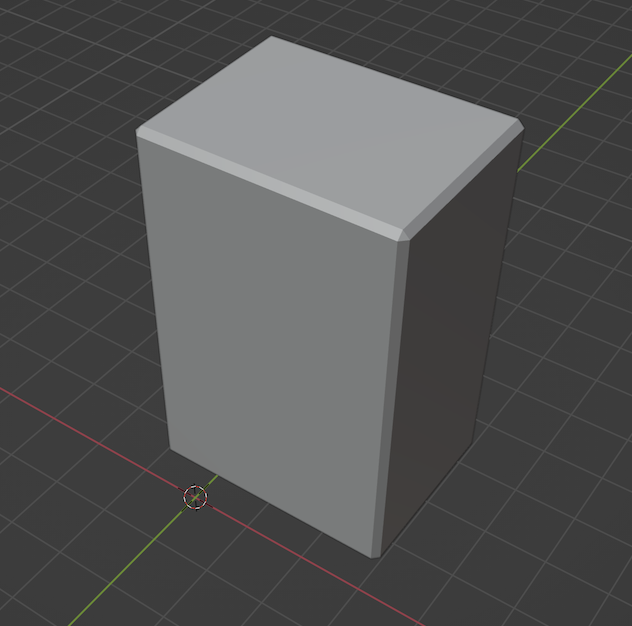
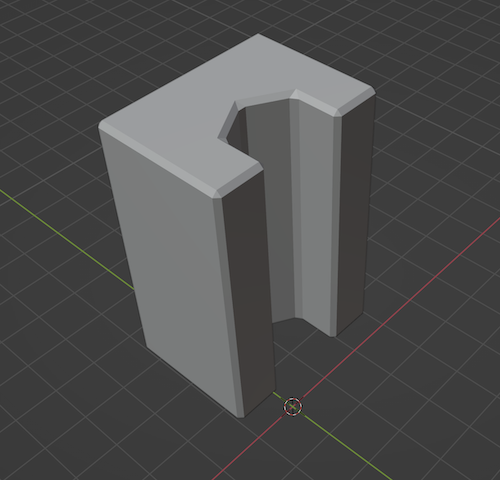
Added support for boolean modifier

diff --git a/blender_cad/bcad.py b/blender_cad/bcad.py
@@ -36,9 +36,7 @@ class BlenderObject:
         data.scale = BlenderVector(self.entity.scale).export()
         data.rotation_euler = BlenderVector(self.entity.rotation_euler).export()
         data.vertex_groups = 'TODO' # str(self.entity.vertex_groups)
-        data.hide_render = self.entity.hide_render
-        data.hide_select = self.entity.hide_select
-        data.hide_viewport = self.entity.hide_viewport
+        data.hide = self.entity.hide_get()
         data.modifiers = []
         data.data = BlenderMesh(self.entity.data).export()
         for modifier in self.entity.modifiers:
@@ -48,16 +46,24 @@ class BlenderObject:
             if modifier.type == 'BEVEL':
                 modifier_data = BlenderBevel(modifier).export()
                 data.modifiers.append(modifier_data)
+            if modifier.type == 'BOOLEAN':
+                modifier_data = BlenderBoolean(modifier).export()
+                data.modifiers.append(modifier_data)
         return data.__dict__
 
     @staticmethod
     def from_json(obj_json):
+        # Create mesh.
         mesh = BlenderMesh.from_json(obj_json['data'])
+        # Create object.
         obj = bpy.data.objects.new(name=obj_json['name'], object_data=mesh)
+        obj.location = obj_json['location']
+        # Set active
         view_layer = bpy.context.view_layer
         view_layer.active_layer_collection.collection.objects.link(obj)
         obj.select_set(True)
         view_layer.objects.active = obj
+        obj.hide_set(obj_json['hide'])
         # Generate modifiers
         for modifier_json in obj_json['modifiers']:
             tpe = modifier_json['type']
@@ -65,6 +71,7 @@ class BlenderObject:
             modifier_blender = obj.modifiers.new(name, tpe)
             if tpe == 'SOLIDIFY': modifier = BlenderSolidify(modifier_blender)
             if tpe == 'BEVEL': modifier = BlenderBevel(modifier_blender)
+            if tpe == 'BOOLEAN': modifier = BlenderBoolean(modifier_blender)
             modifier.update(modifier_json)
         return obj
 
@@ -81,7 +88,7 @@ class BlenderMesh:
             if self.is_rectangle():
                 vertices = [v.co for v in self.entity.vertices]
                 normal = self.get_normal()
-                data.sketch = Rectangle(vertices, normal).export()
+                data.primitive = Rectangle(vertices, normal).export()
         else:
             data.vertices = []
             for vertex in self.entity.vertices:
@@ -99,7 +106,7 @@ class BlenderMesh:
         faces = self.entity.polygons
         if len(faces) != 1: return False
         # TODO: Check if all vertices are on the same plane.
-        return True
+        if self.is_rectangle(): return True # TODO: This is redundant
 
     def is_rectangle(self):
         vertices = [v.co for v in self.entity.vertices]
@@ -120,12 +127,12 @@ class BlenderMesh:
     @staticmethod
     def from_json(mesh_json):
         mesh = bpy.data.meshes.new(mesh_json['name'])
-        if mesh_json['sketch']:
-            sketch = mesh_json['sketch']
-            if sketch['type'] == 'RECTANGLE':
-                center = sketch['center']
-                width = sketch['width']
-                height = sketch['height']
+        if 'primitive' in mesh_json:
+            primitive = mesh_json['primitive']
+            if primitive['type'] == 'RECTANGLE':
+                center = primitive['center']
+                width = primitive['width']
+                height = primitive['height']
                 origin = [
                     center[0] - (width/2),
                     center[1] - (height/2),
@@ -196,6 +203,30 @@ class BlenderBevel:
         data.segments = self.entity.segments
         return data.__dict__
 
+
+class BlenderBoolean:
+    def __init__(self, entity):
+        self.entity = entity
+
+    def update(self, modifier_json):
+        self.entity.operation = modifier_json['operation']
+        self.entity.operand_type = modifier_json['operand_type']
+        ref = delayObjectReference(
+            self.entity,
+            'object',
+            modifier_json['object']
+        )
+        references.append(ref)
+
+    def export(self):
+        data = SimpleNamespace()
+        data.type = self.entity.type
+        data.name = self.entity.name
+        data.operation = self.entity.operation
+        data.operand_type = self.entity.operand_type
+        data.object = self.entity.object.name
+        return data.__dict__
+
 class BlenderVector:
     def __init__(self, vector):
         self.vector = vector
@@ -206,6 +237,18 @@ class BlenderVector:
             round(self.vector.y, ndigits=5),
             round(self.vector.z, ndigits=5)
         ]
+
+references = []
+class delayObjectReference:
+    def __init__(self, target, attribute, value):
+        self.target = target
+        self.attribute = attribute
+        self.value = value
+
+    def attach(self, report):
+        value = [x for x in bpy.data.objects if x.name==self.value][0]
+        report({'INFO'}, f'{self.target} {self.attribute} {self.value} {value}')
+        setattr(self.target, self.attribute, value)
 
 
 class ExportBCAD(Operator, ExportHelper):
@@ -257,6 +300,8 @@ class ImportBCAD(Operator, ImportHelper):
         data = json.loads(f.read())
         for obj_json in data['objects']:
             BlenderObject.from_json(obj_json)
+        for reference in references:
+            reference.attach(self.report)
         # self.report({'INFO'}, str(data))
         return {'FINISHED'}
 

diff --git a/blender_cad/readme.md b/blender_cad/readme.md
@@ -31,12 +31,12 @@ In Blender, `Preferences > Add-ons > Install`, and select `bcad.py`.
 If the mesh has a single face, and all vertex are coplanar, it saves the geometry as a primitive of the type:
 - Square.
 - Rectangle.
-- Circle. (TODO)
+- Circle / Regular polygon. (TODO)
 - Polygon with relative dimensions from point to point (TODO).
-- In theory this the sketch data from Blender CAD Sketcher could be also saved here.
+- In theory sketch+constrain data from Blender CAD Sketcher could be also saved here.
 
 Otherwise geometry data is stored with Blender native structure (a big list of vertices and faces).
 
-## Road blockers
+## Challenges
 - Modifiers that reference objects (eg `Boolean` modifier), these references will have to be encoded in the JSON file so they can be recreated.
 - Assembly using Blender `File link` won't work anymore, so this format should also support cross-file references.
